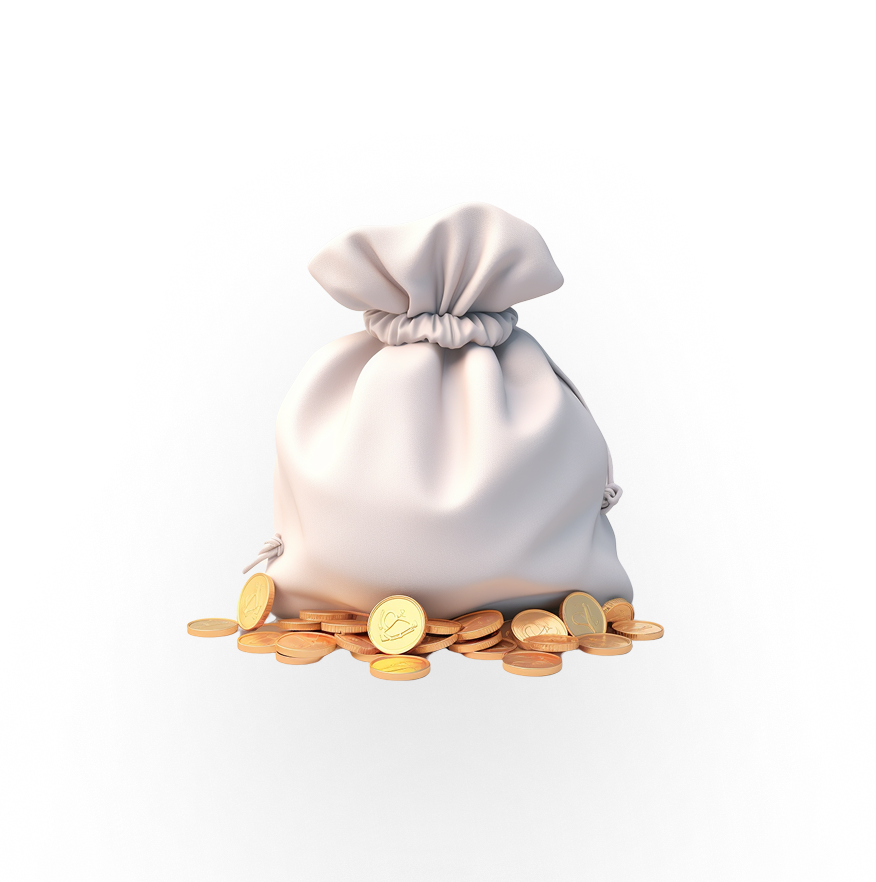
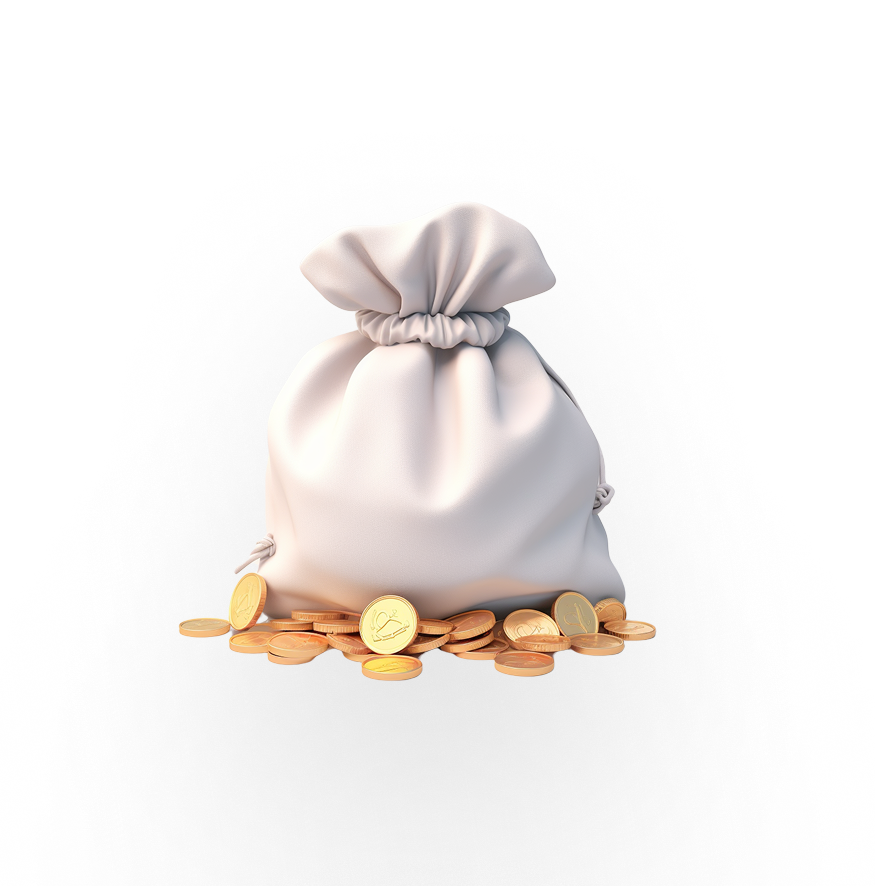
[Design]#37-경제현황 이미지 크기 조절

diff --git a/src/pages/cooperation/components/country/CountryCategory.tsx b/src/pages/cooperation/components/country/CountryCategory.tsx
@@ -29,7 +29,7 @@ const CountryCategory = ({ country, data }: CountryCategoryProps) => {
         </DonutWrapper>
         <CountryDonutText>
           <h1>{country} 분야별 교류 비율</h1>
-          <p>{data.nation_ratio_explain}</p>
+          <p>{data.nation_ratio_explain_detail}</p>
         </CountryDonutText>
       </CountryDonutChartContainer>
     </>

diff --git a/src/pages/recommend/components/ExchangeInfo.tsx b/src/pages/recommend/components/ExchangeInfo.tsx
@@ -27,7 +27,7 @@ const ExchangeInfo = ({ country, data }: InfoProps) => {
       content: data.nation_economic,
       image: `/images/recommend/money.png`,
       bgColor: "yellowCard",
-      imgSize: { width: "9.75rem", height: "9.75rem" },
+      imgSize: { width: "14.75rem", height: "14.75rem" },
       isBorder: true,
     },
     {
